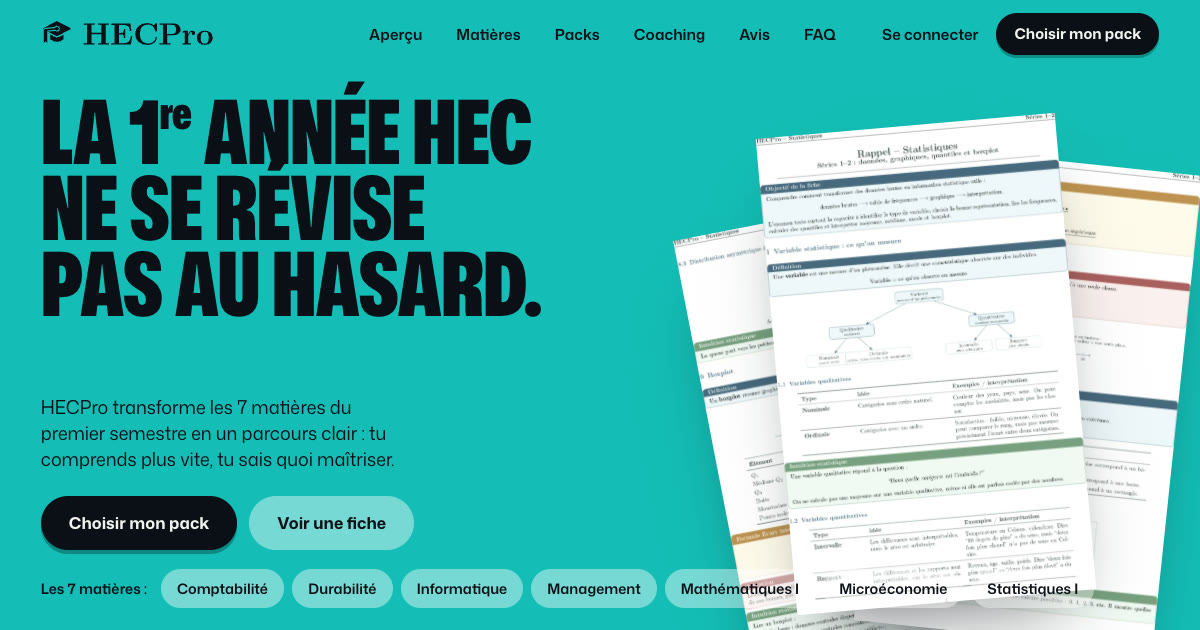
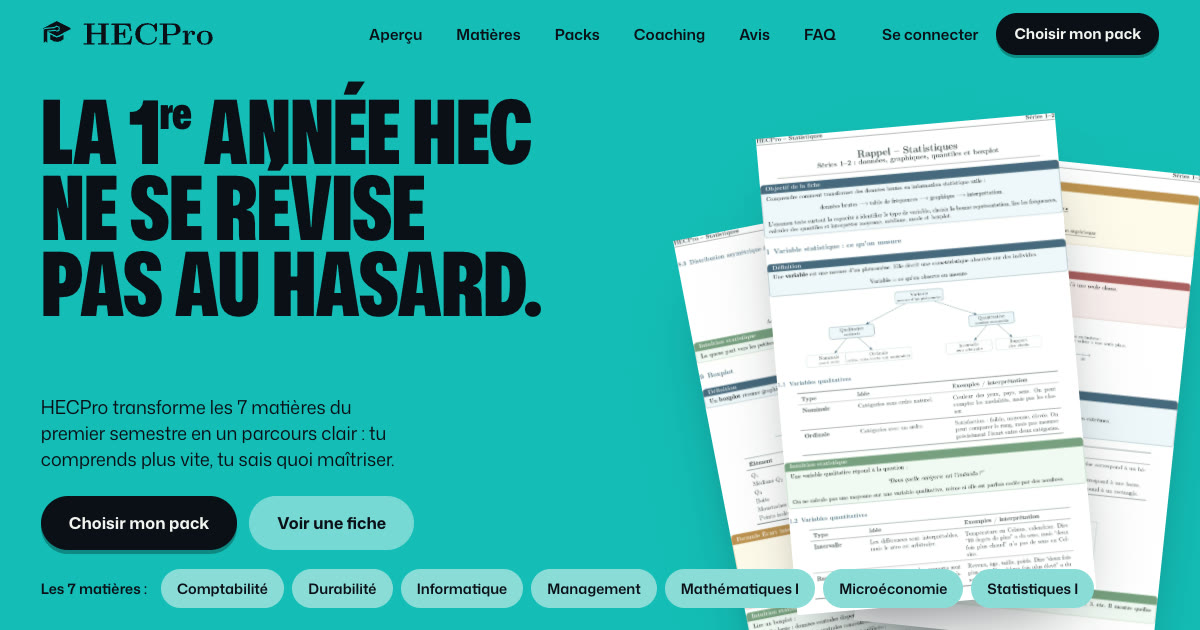
Outside review pass: system fixes, shorter pins, honest 68 %, unified captions
System
- Shared links (/#packs) land on their section: the jump is redone once
  the pins exist, after Lenis re-measures the page
- Nav clicks keep the address bar in step; skip link moves focus to main
- Phone sticky bar watches the whole hero, so jumps register
- Keyboard focus on a card link scrolls the pinned subject row to it
- 44px touch targets for inline links, footer links and the logo
Motion / UI
- Pinned scroll cut: fiche tour .9 -> .65 vh per step, 68 % 110 -> 75 %,
  semester 130 -> 95 %, subjects pan 20 % faster (21 -> 19 screens,
  packs at screen 12.8 instead of 15.3)
- 68 % counts while the slide comes up, never rests on 0 %; proportional
  figures (the tabular zero was slashed)
- Step captions in the poster style; solid subject chips over the sheets;
  closing slide gets the fiche sheets rising back in
- tools/system.mjs: 32 functional checks (nav, chooser, links, tour index,
  reader, FAQ, keyboard, deep links, menu, dock, tap targets, reduced motion,
  no-JS)

Changed region(s): [[0.6167, 0.9048, 0.925, 0.9651]]

diff --git a/assets/site.css b/assets/site.css
@@ -51,6 +51,7 @@ ol, ul { padding: 0; list-style: none; }
 sup { font-size: .5em; line-height: 0; vertical-align: .8em; text-transform: none; }
 button { font: inherit; color: inherit; background: none; border: 0; padding: 0; cursor: pointer; }
 :focus-visible { outline: 3px solid var(--focus); outline-offset: 3px; border-radius: 6px; }
+main:focus { outline: none; } /* focused by the skip link only, the content itself needs no ring */
 .sprite { position: absolute; width: 0; height: 0; overflow: hidden; }
 svg[aria-hidden] { width: 1.1em; height: 1.1em; fill: currentColor; flex: none; }
 .sr-only { position: absolute; width: 1px; height: 1px; overflow: hidden; clip-path: inset(50%); white-space: nowrap; }
@@ -140,7 +141,8 @@ svg.brand__lockup { display: block; height: 34px; width: auto; aspect-ratio: 5.1
 .chips p { font: 600 .9rem var(--sans); white-space: nowrap; }
 .chips ul { display: flex; gap: 8px; overflow-x: auto; scrollbar-width: none; }
 .chips ul::-webkit-scrollbar { display: none; }
-.chips li { padding: 9px 16px; border-radius: 999px; background: var(--soft); font: 600 .9rem var(--sans); white-space: nowrap; }
+.chips li { padding: 9px 16px; border-radius: 999px; background: #8BDCD8; font: 600 .9rem var(--sans); white-space: nowrap; } /* solid light teal (hero only): the sheets pass behind */
+.chips { z-index: 3; }
 .hero__sentinel { position: absolute; left: 0; width: 1px; height: 1px; pointer-events: none; }
 .hero__sentinel--top { top: 48px; }
 .hero__sentinel--end { bottom: 0; }
@@ -150,8 +152,9 @@ svg.brand__lockup { display: block; height: 34px; width: auto; aspect-ratio: 5.1
 .stat__pin { position: relative; z-index: 2; min-height: 100dvh; display: flex; align-items: center; padding-block: calc(var(--head) + 2vh) 4vh; }
 .stat { position: relative; z-index: 2; }
 .stat__grid { display: grid; grid-template-columns: minmax(0, 1.35fr) minmax(0, 1fr); grid-template-rows: 1fr auto; column-gap: 48px; row-gap: 28px; align-items: end; }
-.stat__num { grid-row: 1 / span 2; display: flex; align-items: flex-start; font: 900 min(28vw, 52vh)/.8 var(--sans); font-stretch: 75%; letter-spacing: -.04em; font-variant-numeric: tabular-nums; }
+.stat__num { grid-row: 1 / span 2; display: flex; align-items: flex-start; font: 900 min(28vw, 52vh)/.8 var(--sans); font-stretch: 75%; letter-spacing: -.04em; /* proportional figures: the tabular set has a slashed zero */ }
 .stat__pct { font-size: .52em; margin-top: .06em; }
+[data-stat-n] { display: inline-block; min-width: 1.12em; text-align: right; } /* two digits wide: the % never moves while counting */
 .stat__line { font-size: clamp(2rem, 4vw, 3.6rem); max-width: 12ch; }
 .matrix { margin: 0; }
 html:not(.js) .matrix { display: none; }
@@ -178,8 +181,9 @@ html:not(.js) .matrix { display: none; }
 /* Aperçu (pinned fiche tour, kept from v2) */
 .tour { padding-top: clamp(90px, 10vw, 140px); }
 .tour__intro .poster { max-width: 14ch; }
-.tab { display: inline-flex; align-items: center; gap: 10px; font: 700 1rem/1 var(--sans); color: var(--c, var(--fg)); }
-.tab b { display: inline-grid; place-items: center; width: 28px; height: 28px; border-radius: 50%; background: var(--c, var(--fg)); color: var(--bg); font-size: .82rem; }
+/* step captions speak the same poster language as the headlines */
+.tab { display: inline-flex; align-items: center; gap: 14px; font: 900 clamp(2rem, 3.4vw, 3.2rem)/.9 var(--sans); font-stretch: 76%; text-transform: uppercase; color: var(--c, var(--fg)); }
+.tab b { display: inline-grid; place-items: center; width: 40px; height: 40px; border-radius: 50%; background: var(--c, var(--fg)); color: var(--bg); font: 800 1.05rem/1 var(--sans); font-stretch: 100%; }
 .tab[data-c="pen"] { --c: var(--pen); }
 .tab[data-c="teal"] { --c: var(--teal-ink); }
 .tab[data-c="red"] { --c: var(--red); }
@@ -188,8 +192,8 @@ html:not(.js) .matrix { display: none; }
 .tour__side { grid-column: 1 / span 4; }
 .tour__steps { display: grid; gap: 28px; align-content: start; }
 .tour__index { display: none; }
-.tour__steps li { max-width: 34ch; }
-.tour__steps p { padding: 14px 0 0 18px; margin-left: 12px; border-left: 1.5px solid var(--line); font-size: 1.22rem; line-height: 1.4; text-wrap: pretty; }
+.tour__steps li { max-width: 26rem; }
+.tour__steps p { padding: 16px 0 0; font-size: 1.32rem; line-height: 1.4; font-weight: 500; text-wrap: pretty; }
 .tour__win { grid-column: 5 / span 8; position: relative; overflow: hidden; background: #fff; box-shadow: 0 0 0 1px var(--line); }
 .tour__cam { position: relative; transform-origin: 0 0; }
 .tour__pg { width: 100%; height: auto; background: #fff; }
@@ -200,7 +204,7 @@ html:not(.js) .matrix { display: none; }
 .tour.is-live .tour__stage { height: 100dvh; margin-top: 0; display: flex; align-items: center; }
 .tour.is-live .tour__grid { height: calc(100dvh - var(--head) - 48px); margin-top: calc(var(--head) / 2); }
 .tour.is-live .tour__side { display: flex; flex-direction: column; justify-content: center; gap: 36px; }
-.tour.is-live .tour__steps { position: relative; display: block; height: 200px; }
+.tour.is-live .tour__steps { position: relative; display: block; height: 240px; }
 .tour.is-live .tour__index { display: flex; gap: 8px; }
 .tour__index button {
   width: 34px; height: 34px; border-radius: 50%; border: 1.5px solid var(--line); color: var(--fg-2);
@@ -267,7 +271,7 @@ html:not(.js) .matrix { display: none; }
 .semester__pin { min-height: 100dvh; display: flex; align-items: center; padding-block: calc(var(--head) + 4vh) 6vh; }
 .semester__pin > .wrap { width: 100%; }
 .semester__head { display: grid; grid-template-columns: minmax(0, 1.2fr) minmax(0, 1fr); gap: 32px; align-items: end; }
-.week { justify-self: end; text-align: right; font: 900 clamp(3.4rem, 9vw, 8.4rem)/.82 var(--sans); font-stretch: 75%; text-transform: uppercase; font-variant-numeric: tabular-nums; white-space: nowrap; }
+.week { justify-self: end; text-align: right; font: 900 clamp(3.4rem, 9vw, 8.4rem)/.82 var(--sans); font-stretch: 75%; text-transform: uppercase; white-space: nowrap; }
 .axis { position: relative; margin-top: clamp(56px, 6vw, 88px); padding-top: 64px; display: grid; gap: 36px; }
 .axis__line { position: absolute; left: 0; right: 0; top: 30px; height: 2px; background: var(--line); }
 .axis__draw { position: absolute; inset: 0; background: var(--fg); transform: scaleX(0); transform-origin: left; transition: transform 1.6s var(--ease) .2s; }
@@ -387,6 +391,15 @@ html:not(.js) .matrix { display: none; }
 
 /* Closing: a ticker of the subjects, driven by scroll speed (Arc) */
 .closing { position: relative; overflow: clip; padding-block: clamp(60px, 7vw, 100px) clamp(100px, 11vw, 150px); }
+.closing__in { position: relative; z-index: 1; }
+/* bookend: the hero's sheets come back on the right, rising as the page ends */
+.closing__desk { position: absolute; right: max(var(--gut), calc((100vw - 1360px) / 2 + var(--gut))); bottom: -6%; width: min(38vw, 560px); height: 74%; pointer-events: none; }
+.closing__sheet { position: absolute; width: 58%; }
+.closing__sheet img { width: 100%; background: #fff; box-shadow: 0 40px 70px -30px rgb(11 15 23 / .55); }
+.closing__sheet--a { right: 34%; top: 18%; rotate: -9deg; }
+.closing__sheet--b { right: 2%; top: 8%; rotate: 7deg; }
+.closing__sheet--c { right: 18%; top: 0; rotate: -2deg; }
+@media (max-width: 1080px) { .closing__desk { display: none; } }
 .ticker { overflow: hidden; margin-bottom: clamp(40px, 5vw, 70px); }
 .ticker__row { will-change: transform; display: flex; gap: .4em; width: max-content; font: 900 clamp(4rem, 11vw, 10rem)/1 var(--sans); font-stretch: 75%; text-transform: uppercase; white-space: nowrap; }
 .ticker__row span { color: transparent; -webkit-text-stroke: 2px var(--fg); }
@@ -456,8 +469,10 @@ html:not(.js) .foot, .foot { background: var(--c-night); color: var(--c-chalk); 
   .tour.is-live .tour__side { justify-content: flex-start; gap: 12px; }
   .tour.is-live .tour__index { order: -1; }
   .tour.is-live .tour__steps { height: 150px; }
+  .tab { font-size: 1.7rem; gap: 10px; }
+  .tab b { width: 32px; height: 32px; font-size: .9rem; }
   .tour__index button { width: 40px; height: 40px; }
-  .tour__steps p { font-size: 1.05rem; }
+  .tour__steps p { font-size: 1.05rem; padding-top: 10px; }
   .subj { height: min(62vh, 480px); padding: 24px; }
   .subj h3 { font-size: 2rem; }
   .subj__n { font-size: 10rem; }
@@ -481,6 +496,9 @@ html:not(.js) .foot, .foot { background: var(--c-night); color: var(--c-chalk); 
   .faq__title { position: static; }
   .foot__grid { grid-template-columns: 1fr; }
   .foot__nav { justify-content: flex-start; margin-left: -14px; }
+  /* 44px touch targets for every inline link and the logo */
+  .link-arrow, .subj__link, .foot__legal a, .foot__nav a, .brand, .menu__login { min-height: 44px; display: inline-flex; align-items: center; }
+  .foot__legal p:nth-child(2) { gap: 0 24px; }
   .dock {
     display: flex; position: fixed; z-index: 40; left: 10px; right: 10px; bottom: calc(10px + env(safe-area-inset-bottom));
     align-items: center; justify-content: space-between; gap: 16px; padding: 8px 8px 8px 20px; border-radius: 999px;

diff --git a/assets/site.js b/assets/site.js
@@ -74,7 +74,8 @@
   const busy = new Set(); // sections with their own CTA or full-screen content: no dock over them
   const syncDock = () => dock.classList.toggle('is-on', pastHero && !busy.size);
   new IntersectionObserver(([e]) => top.classList.toggle('is-solid', !e.isIntersecting)).observe($('[data-hero-top]'));
-  new IntersectionObserver(([e]) => { pastHero = !e.isIntersecting && e.boundingClientRect.top < 0; syncDock(); }).observe($('[data-hero-end]'));
+  // watch the whole hero, not a 1px marker: a jump (menu link, shared link) from the hero to anywhere still registers
+  new IntersectionObserver(([e]) => { pastHero = !e.isIntersecting && e.boundingClientRect.top < 0; syncDock(); }).observe($('.hero'));
   const quiet = new IntersectionObserver(es => { es.forEach(e => busy[e.isIntersecting ? 'add' : 'delete'](e.target)); syncDock(); }, { rootMargin: '0px 0px -30% 0px' });
   $$('#apercu .tour__stage, #packs, .closing, .foot').forEach(el => quiet.observe(el));
 
@@ -158,7 +159,14 @@
   });
   setTimeout(() => $$('.hero .paper').forEach(pp => pp.classList.add('is-ready')), 2500);
   // The reader's other pages are fetched quietly once the page is idle.
-  addEventListener('load', () => (window.requestIdleCallback || setTimeout)(() => $$('.reader img').forEach(i => { i.loading = 'eager'; }), { timeout: 4000 }), { once: true });
+  addEventListener('load', () => (window.requestIdleCallback || setTimeout)(() => $$('.reader img, .closing__sheet img').forEach(i => { i.loading = 'eager'; i.decode?.().catch(() => {}); }), { timeout: 4000 }), { once: true });
+
+  // In-page links keep the address bar in step (the link can be shared), and the skip link moves focus.
+  document.addEventListener('click', e => {
+    const a = e.target.closest('a[href^="#"]'); if (!a || a.getAttribute('href').length < 2) return;
+    history.replaceState(null, '', a.getAttribute('href'));
+    if (a.classList.contains('skip')) $('#contenu').focus({ preventScroll: true });
+  });
 
   // Dialogs: mobile menu and the 8-page reader. Smooth scroll pauses while one is open.
   const wire = (dialog, openSel) => {
@@ -208,7 +216,9 @@
   const initStat = () => {
     if (short) return setStat(1);
     setStat(0);
-    ScrollTrigger.create({ trigger: '[data-stat]', start: 'top top', end: '+=110%', pin: true, scrub: true, onUpdate: st => setStat(st.progress) });
+    // the count starts while the slide comes up, so it never rests on 0 % and peaks soon after it pins
+    ScrollTrigger.create({ trigger: '[data-stat]', start: 'top top', end: '+=75%', pin: true });
+    ScrollTrigger.create({ trigger: '[data-stat]', start: 'top 70%', end: () => '+=' + Math.round(innerHeight * 1.15), scrub: true, onUpdate: st => setStat(st.progress) });
   };
 
   // Matières: the cards run sideways while the section is pinned.
@@ -217,7 +227,13 @@
     if (!pan || short) return;
     pan.classList.add('is-live');
     const dist = () => Math.max(0, track.scrollWidth - innerWidth);
-    G.to(track, { x: () => -dist(), ease: 'none', scrollTrigger: { trigger: '.subjects', start: 'top top', end: () => '+=' + dist(), pin: true, scrub: .6, invalidateOnRefresh: true } });
+    const tw = G.to(track, { x: () => -dist(), ease: 'none', scrollTrigger: { trigger: '.subjects', start: 'top top', end: () => '+=' + Math.round(dist() * .8), pin: true, scrub: .6, invalidateOnRefresh: true } });
+    // keyboard: focusing a link in a card that is off screen scrolls the page to that card
+    pan.addEventListener('focusin', e => {
+      const card = e.target.closest('.subj'); if (!card) return;
+      const st = tw.scrollTrigger, want = Math.min(1, Math.max(0, (card.offsetLeft - innerWidth * .3) / dist()));
+      scrollToY(st.start + (st.end - st.start) * want);
+    });
   };
 
   // Le semestre: pinned on desktop while the line runs; on phones the vertical line follows the scroll.
@@ -229,7 +245,7 @@
     update(0);
     ScrollTrigger.create(phone || short
       ? { trigger: axis, start: 'top 75%', end: 'bottom 55%', scrub: .5, onUpdate: st => update(st.progress) }
-      : { trigger: '[data-semester]', start: 'top top', end: '+=130%', pin: true, scrub: .5, onUpdate: st => update(st.progress) });
+      : { trigger: '[data-semester]', start: 'top top', end: '+=95%', pin: true, scrub: .5, onUpdate: st => update(st.progress) });
   };
 
   // Avis: the belt of stickers slides left as the page scrolls down.
@@ -295,7 +311,7 @@
     const tl = G.timeline({
       defaults: { ease: 'power2.inOut' },
       scrollTrigger: {
-        trigger: stage, start: 'top top', end: () => '+=' + Math.round((steps.length - 1) * innerHeight * .9),
+        trigger: stage, start: 'top top', end: () => '+=' + Math.round((steps.length - 1) * innerHeight * .65),
         pin: true, scrub: .6, invalidateOnRefresh: true,
       },
       onUpdate() {
@@ -326,12 +342,27 @@
       scrollToY(st.start + (st.end - st.start) * tl.labels['s' + i] / tl.duration() + 2);
     }));
   };
+  // Closing: the sheets rise back in on the right as the page ends.
+  const initCloser = () => {
+    [['.closing__sheet--a img', 140, -6], ['.closing__sheet--b img', 220, 8], ['.closing__sheet--c img', 300, -3]].forEach(([sel, y, r]) =>
+      G.fromTo(sel, { y, rotation: r, transformPerspective: 1100, rotationX: 28 }, { y: 0, rotation: 0, rotationX: 0, ease: 'none', scrollTrigger: { trigger: '.closing', start: 'top bottom', end: 'bottom bottom', scrub: .8 } }));
+  };
+
   // Pins are created in page order so each one measures the space left by the previous ones.
   // One init per frame, then one measuring pass: no single long task if the visitor is already scrolling.
   const nextFrame = () => new Promise(r => requestAnimationFrame(() => r()));
   const start = () => fontsIn.then(async () => {
     for (const init of [initStat, startTour, initPan, initSemester, initBelt, initTicker]) { init(); await nextFrame(); }
+    initCloser(); await nextFrame();
     ScrollTrigger.refresh();
+    // a shared link (/#packs) is honoured once the pins exist: the browser's own jump happened before they did
+    const target = location.hash.length > 1 && document.getElementById(location.hash.slice(1));
+    if (target) {
+      await nextFrame();
+      lenis?.resize(); // its cached page height predates the pin spacers and would clamp the jump
+      const y = target.getBoundingClientRect().top + scrollY - 80;
+      lenis ? lenis.scrollTo(y, { immediate: true, force: true }) : scrollTo(0, y);
+    }
   });
   if (document.readyState === 'complete') start(); else addEventListener('load', start, { once: true });
 })();

diff --git a/index.html b/index.html
@@ -96,7 +96,7 @@
   <a class="menu__login" href="https://www.hecpro.ch/account/sessions/new">Se connecter</a>
 </dialog>
 
-<main id="contenu">
+<main id="contenu" tabindex="-1">
 
   <!-- Hero -->
   <section class="hero" id="top" data-field="teal">
@@ -399,6 +399,11 @@
   <!-- Closing -->
   <section class="closing" data-field="teal">
     <div class="ticker" aria-hidden="true" data-ticker><div class="ticker__row"><span>Comptabilité</span><span>Durabilité</span><span>Informatique</span><span>Management</span><span>Mathématiques I</span><span>Microéconomie</span><span>Statistiques I</span><span>Comptabilité</span><span>Durabilité</span><span>Informatique</span><span>Management</span><span>Mathématiques I</span><span>Microéconomie</span><span>Statistiques I</span></div></div>
+    <div class="closing__desk" aria-hidden="true">
+      <span class="closing__sheet closing__sheet--a"><img src="assets/fiche/p5.webp" width="1083" height="1726" alt="" loading="lazy" decoding="async"></span>
+      <span class="closing__sheet closing__sheet--b"><img src="assets/fiche/p7.webp" width="1083" height="1726" alt="" loading="lazy" decoding="async"></span>
+      <span class="closing__sheet closing__sheet--c"><img src="assets/fiche/p2.webp" width="1083" height="1726" alt="" loading="lazy" decoding="async"></span>
+    </div>
     <div class="wrap closing__in">
       <h2 class="poster closing__title">Commence HEC avec une longueur d’avance.</h2>
       <p class="sub">7 matières, un cadre clair dès les premières semaines pour comprendre tes cours, savoir où tu vas et ne pas laisser le flou s’installer.</p>
